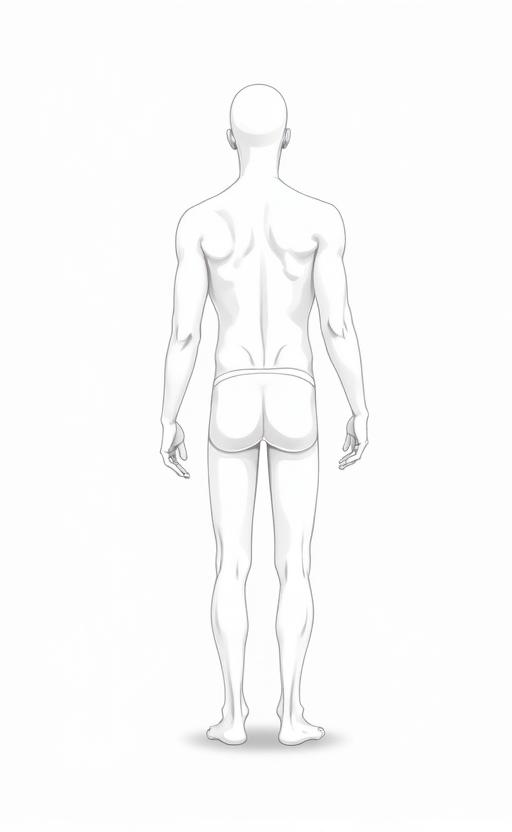
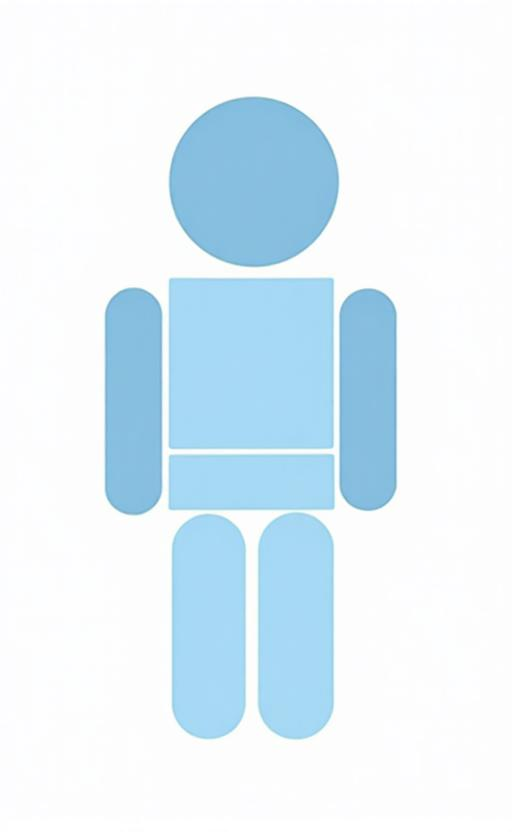
Update simple blocky body diagram
Replace previous realistic diagrams with new simple geometric front/back body images and adjust overlay regions to match the updated proportions for incident reporting. Ensure two views side by side with clear, tappable body parts and color-coded injury states.

Changed region(s): [[0.1875, 0.0938, 0.7812, 0.9062]]

diff --git a/src/components/incident/BodyDiagramSelector.tsx b/src/components/incident/BodyDiagramSelector.tsx
@@ -11,54 +11,54 @@ interface BodyDiagramSelectorProps {
 
 const bodyParts = {
   front: [
-    { id: "head_front", label: "Head", top: "3%", left: "38%", width: "24%", height: "12%" },
-    { id: "neck_front", label: "Neck", top: "15%", left: "42%", width: "16%", height: "5%" },
-    { id: "chest", label: "Chest", top: "20%", left: "32%", width: "36%", height: "15%" },
-    { id: "abdomen", label: "Abdomen", top: "35%", left: "34%", width: "32%", height: "12%" },
-    { id: "left_shoulder", label: "Left Shoulder", top: "20%", left: "20%", width: "12%", height: "8%" },
-    { id: "right_shoulder", label: "Right Shoulder", top: "20%", left: "68%", width: "12%", height: "8%" },
-    { id: "left_arm_upper", label: "Left Upper Arm", top: "28%", left: "15%", width: "10%", height: "15%" },
-    { id: "right_arm_upper", label: "Right Upper Arm", top: "28%", left: "75%", width: "10%", height: "15%" },
-    { id: "left_elbow", label: "Left Elbow", top: "43%", left: "13%", width: "10%", height: "6%" },
-    { id: "right_elbow", label: "Right Elbow", top: "43%", left: "77%", width: "10%", height: "6%" },
-    { id: "left_forearm", label: "Left Forearm", top: "49%", left: "10%", width: "12%", height: "15%" },
-    { id: "right_forearm", label: "Right Forearm", top: "49%", left: "78%", width: "12%", height: "15%" },
-    { id: "left_hand", label: "Left Hand", top: "64%", left: "8%", width: "12%", height: "8%" },
-    { id: "right_hand", label: "Right Hand", top: "64%", left: "80%", width: "12%", height: "8%" },
-    { id: "left_thigh", label: "Left Thigh", top: "47%", left: "36%", width: "10%", height: "18%" },
-    { id: "right_thigh", label: "Right Thigh", top: "47%", left: "54%", width: "10%", height: "18%" },
-    { id: "left_knee", label: "Left Knee", top: "65%", left: "36%", width: "10%", height: "6%" },
-    { id: "right_knee", label: "Right Knee", top: "65%", left: "54%", width: "10%", height: "6%" },
-    { id: "left_shin", label: "Left Shin", top: "71%", left: "36%", width: "10%", height: "17%" },
-    { id: "right_shin", label: "Right Shin", top: "71%", left: "54%", width: "10%", height: "17%" },
-    { id: "left_foot", label: "Left Foot", top: "88%", left: "35%", width: "11%", height: "8%" },
-    { id: "right_foot", label: "Right Foot", top: "88%", left: "54%", width: "11%", height: "8%" }
+    { id: "head_front", label: "Head", top: "5%", left: "32%", width: "36%", height: "18%" },
+    { id: "neck_front", label: "Neck", top: "23%", left: "40%", width: "20%", height: "5%" },
+    { id: "left_shoulder", label: "Left Shoulder", top: "28%", left: "15%", width: "15%", height: "12%" },
+    { id: "right_shoulder", label: "Right Shoulder", top: "28%", left: "70%", width: "15%", height: "12%" },
+    { id: "chest", label: "Chest", top: "28%", left: "30%", width: "40%", height: "15%" },
+    { id: "abdomen", label: "Abdomen", top: "43%", left: "30%", width: "40%", height: "15%" },
+    { id: "left_arm_upper", label: "Left Upper Arm", top: "40%", left: "12%", width: "13%", height: "18%" },
+    { id: "right_arm_upper", label: "Right Upper Arm", top: "40%", left: "75%", width: "13%", height: "18%" },
+    { id: "left_elbow", label: "Left Elbow", top: "58%", left: "13%", width: "11%", height: "8%" },
+    { id: "right_elbow", label: "Right Elbow", top: "58%", left: "76%", width: "11%", height: "8%" },
+    { id: "left_forearm", label: "Left Forearm", top: "66%", left: "12%", width: "13%", height: "15%" },
+    { id: "right_forearm", label: "Right Forearm", top: "66%", left: "75%", width: "13%", height: "15%" },
+    { id: "left_hand", label: "Left Hand", top: "81%", left: "11%", width: "14%", height: "9%" },
+    { id: "right_hand", label: "Right Hand", top: "81%", left: "75%", width: "14%", height: "9%" },
+    { id: "left_thigh", label: "Left Thigh", top: "58%", left: "33%", width: "13%", height: "22%" },
+    { id: "right_thigh", label: "Right Thigh", top: "58%", left: "54%", width: "13%", height: "22%" },
+    { id: "left_knee", label: "Left Knee", top: "80%", left: "33%", width: "13%", height: "8%" },
+    { id: "right_knee", label: "Right Knee", top: "80%", left: "54%", width: "13%", height: "8%" },
+    { id: "left_shin", label: "Left Shin", top: "88%", left: "33%", width: "13%", height: "8%" },
+    { id: "right_shin", label: "Right Shin", top: "88%", left: "54%", width: "13%", height: "8%" },
+    { id: "left_foot", label: "Left Foot", top: "96%", left: "32%", width: "14%", height: "4%" },
+    { id: "right_foot", label: "Right Foot", top: "96%", left: "54%", width: "14%", height: "4%" }
   ],
   back: [
-    { id: "head_back", label: "Head (Back)", top: "3%", left: "38%", width: "24%", height: "12%" },
-    { id: "neck_back", label: "Neck (Back)", top: "15%", left: "42%", width: "16%", height: "5%" },
-    { id: "upper_back", label: "Upper Back", top: "20%", left: "32%", width: "36%", height: "15%" },
-    { id: "lower_back", label: "Lower Back", top: "35%", left: "34%", width: "32%", height: "12%" },
-    { id: "left_shoulder_back", label: "Left Shoulder (Back)", top: "20%", left: "20%", width: "12%", height: "8%" },
-    { id: "right_shoulder_back", label: "Right Shoulder (Back)", top: "20%", left: "68%", width: "12%", height: "8%" },
-    { id: "left_arm_back", label: "Left Arm (Back)", top: "28%", left: "15%", width: "10%", height: "15%" },
-    { id: "right_arm_back", label: "Right Arm (Back)", top: "28%", left: "75%", width: "10%", height: "15%" },
-    { id: "left_elbow_back", label: "Left Elbow (Back)", top: "43%", left: "13%", width: "10%", height: "6%" },
-    { id: "right_elbow_back", label: "Right Elbow (Back)", top: "43%", left: "77%", width: "10%", height: "6%" },
-    { id: "left_forearm_back", label: "Left Forearm (Back)", top: "49%", left: "10%", width: "12%", height: "15%" },
-    { id: "right_forearm_back", label: "Right Forearm (Back)", top: "49%", left: "78%", width: "12%", height: "15%" },
-    { id: "left_hand_back", label: "Left Hand (Back)", top: "64%", left: "8%", width: "12%", height: "8%" },
-    { id: "right_hand_back", label: "Right Hand (Back)", top: "64%", left: "80%", width: "12%", height: "8%" },
-    { id: "left_buttock", label: "Left Buttock", top: "46%", left: "38%", width: "10%", height: "8%" },
-    { id: "right_buttock", label: "Right Buttock", top: "46%", left: "52%", width: "10%", height: "8%" },
-    { id: "left_thigh_back", label: "Left Thigh (Back)", top: "54%", left: "36%", width: "10%", height: "15%" },
-    { id: "right_thigh_back", label: "Right Thigh (Back)", top: "54%", left: "54%", width: "10%", height: "15%" },
-    { id: "left_knee_back", label: "Left Knee (Back)", top: "69%", left: "36%", width: "10%", height: "6%" },
-    { id: "right_knee_back", label: "Right Knee (Back)", top: "69%", left: "54%", width: "10%", height: "6%" },
-    { id: "left_calf", label: "Left Calf", top: "75%", left: "36%", width: "10%", height: "13%" },
-    { id: "right_calf", label: "Right Calf", top: "75%", left: "54%", width: "10%", height: "13%" },
-    { id: "left_foot_back", label: "Left Foot (Back)", top: "88%", left: "35%", width: "11%", height: "8%" },
-    { id: "right_foot_back", label: "Right Foot (Back)", top: "88%", left: "54%", width: "11%", height: "8%" }
+    { id: "head_back", label: "Head (Back)", top: "5%", left: "32%", width: "36%", height: "18%" },
+    { id: "neck_back", label: "Neck (Back)", top: "23%", left: "40%", width: "20%", height: "5%" },
+    { id: "left_shoulder_back", label: "Left Shoulder (Back)", top: "28%", left: "15%", width: "15%", height: "12%" },
+    { id: "right_shoulder_back", label: "Right Shoulder (Back)", top: "28%", left: "70%", width: "15%", height: "12%" },
+    { id: "upper_back", label: "Upper Back", top: "28%", left: "30%", width: "40%", height: "15%" },
+    { id: "lower_back", label: "Lower Back", top: "43%", left: "30%", width: "40%", height: "15%" },
+    { id: "left_arm_back", label: "Left Arm (Back)", top: "40%", left: "12%", width: "13%", height: "18%" },
+    { id: "right_arm_back", label: "Right Arm (Back)", top: "40%", left: "75%", width: "13%", height: "18%" },
+    { id: "left_elbow_back", label: "Left Elbow (Back)", top: "58%", left: "13%", width: "11%", height: "8%" },
+    { id: "right_elbow_back", label: "Right Elbow (Back)", top: "58%", left: "76%", width: "11%", height: "8%" },
+    { id: "left_forearm_back", label: "Left Forearm (Back)", top: "66%", left: "12%", width: "13%", height: "15%" },
+    { id: "right_forearm_back", label: "Right Forearm (Back)", top: "66%", left: "75%", width: "13%", height: "15%" },
+    { id: "left_hand_back", label: "Left Hand (Back)", top: "81%", left: "11%", width: "14%", height: "9%" },
+    { id: "right_hand_back", label: "Right Hand (Back)", top: "81%", left: "75%", width: "14%", height: "9%" },
+    { id: "left_buttock", label: "Left Buttock", top: "58%", left: "35%", width: "11%", height: "10%" },
+    { id: "right_buttock", label: "Right Buttock", top: "58%", left: "54%", width: "11%", height: "10%" },
+    { id: "left_thigh_back", label: "Left Thigh (Back)", top: "68%", left: "33%", width: "13%", height: "12%" },
+    { id: "right_thigh_back", label: "Right Thigh (Back)", top: "68%", left: "54%", width: "13%", height: "12%" },
+    { id: "left_knee_back", label: "Left Knee (Back)", top: "80%", left: "33%", width: "13%", height: "8%" },
+    { id: "right_knee_back", label: "Right Knee (Back)", top: "80%", left: "54%", width: "13%", height: "8%" },
+    { id: "left_calf", label: "Left Calf", top: "88%", left: "33%", width: "13%", height: "8%" },
+    { id: "right_calf", label: "Right Calf", top: "88%", left: "54%", width: "13%", height: "8%" },
+    { id: "left_foot_back", label: "Left Foot (Back)", top: "96%", left: "32%", width: "14%", height: "4%" },
+    { id: "right_foot_back", label: "Right Foot (Back)", top: "96%", left: "54%", width: "14%", height: "4%" }
   ]
 };
 
